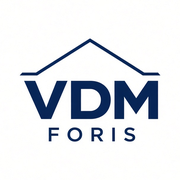
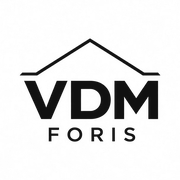
Brand: switch from navy to black and white
- Theme tokens: primary/action #111111, hover #333333, white background,
  surfaces #F5F5F5, borders #E5E5E5, muted text #595959, light grey #E5E5E5
  on black sections; pale-blue accent dropped (WhatsApp green kept)
- Logo recoloured to #111111 (alpha/anti-aliasing kept): public/brand
  vdm-foris-logo-black(.png|-square.png) replace the navy files; icon.png,
  apple-icon.png, favicon.ico recoloured
- OG image: black background, white logo, light grey footer text
- 3D werkwijze illustration: navy/blue-tinted sky and glass made neutral

diff --git a/src/app/globals.css b/src/app/globals.css
@@ -54,59 +54,60 @@
 
 :root {
   /*
-   * VDM Foris brand (logo navy #072557, sampled from the approved logo).
-   * Token names are historical: "terracotta" is now the action colour
-   * (buttons, links, small accents) and equals the logo navy; "cream" is now
-   * the light background / text-on-navy colour; "olive" is a muted slate blue
-   * for secondary labels. Contrast (WCAG AA) checked:
-   * navy on white 14.9:1, slate on #F3F6FA 6.4:1, light accent on navy 9.1:1.
+   * VDM Foris brand: black and white (logo ink #111111).
+   * Token names are historical: "navy" and "terracotta" are now the near-black
+   * primary/action colour (buttons, links, headings, small accents); "cream" is
+   * the white background / text-on-dark colour; "olive" is a mid grey for
+   * secondary labels. Contrast (WCAG AA) checked:
+   * #111111 on white 18.9:1, #595959 on white 7.0:1 and on #F5F5F5 6.4:1,
+   * #E5E5E5 on #111111 15.0:1.
    */
-  --navy: #072557;
-  --navy-hover: #1a3a70;
+  --navy: #111111;
+  --navy-hover: #333333;
   --cream: #ffffff;
-  --terracotta: #072557;
-  --olive: #3b5b86;
-  --accent-on-dark: #b7cbec;
+  --terracotta: #111111;
+  --olive: #595959;
+  --accent-on-dark: #e5e5e5;
 
   /* Semantic tokens mapped to brand */
   --background: var(--cream);
-  --foreground: #0b1a30;
+  --foreground: #111111;
   --card: #ffffff;
-  --card-foreground: #0b1a30;
+  --card-foreground: #111111;
   --popover: #ffffff;
-  --popover-foreground: #0b1a30;
+  --popover-foreground: #111111;
   --primary: var(--navy);
   --primary-foreground: #ffffff;
-  --secondary: #f3f6fa;
+  --secondary: #f5f5f5;
   --secondary-foreground: var(--navy);
-  --muted: #f3f6fa;
-  --muted-foreground: #4a5a72;
+  --muted: #f5f5f5;
+  --muted-foreground: #595959;
   --accent: var(--navy);
   --accent-foreground: #ffffff;
   --destructive: oklch(0.55 0.22 27);
-  --border: #e2e8f0;
-  --input: #e2e8f0;
+  --border: #e5e5e5;
+  --input: #e5e5e5;
   --ring: var(--navy);
   --chart-1: var(--navy);
-  --chart-2: var(--olive);
-  --chart-3: #1a3a70;
-  --chart-4: #7d97c2;
-  --chart-5: #b7cbec;
+  --chart-2: #595959;
+  --chart-3: #333333;
+  --chart-4: #8c8c8c;
+  --chart-5: #d4d4d4;
   --radius: 0.625rem;
   --sidebar: #ffffff;
-  --sidebar-foreground: #0b1a30;
+  --sidebar-foreground: #111111;
   --sidebar-primary: var(--navy);
   --sidebar-primary-foreground: #ffffff;
-  --sidebar-accent: #f3f6fa;
+  --sidebar-accent: #f5f5f5;
   --sidebar-accent-foreground: var(--navy);
-  --sidebar-border: #e2e8f0;
+  --sidebar-border: #e5e5e5;
   --sidebar-ring: var(--navy);
 }
 
 /*
- * On navy sections the action colour would vanish, so swap it for the light
- * accent there. Buttons that use the action colour as background become
- * white with navy text.
+ * On black sections the action colour would vanish, so swap it for light grey
+ * there. Buttons that use the action colour as background become white with
+ * black text.
  */
 .bg-navy,
 .on-dark {
@@ -120,29 +121,29 @@
 }
 
 .dark {
-  --background: oklch(0.18 0.03 250);
+  --background: oklch(0.18 0 0);
   --foreground: var(--cream);
-  --card: oklch(0.225 0.04 250);
+  --card: oklch(0.225 0 0);
   --card-foreground: var(--cream);
-  --popover: oklch(0.225 0.04 250);
+  --popover: oklch(0.225 0 0);
   --popover-foreground: var(--cream);
   --primary: var(--cream);
   --primary-foreground: var(--navy);
-  --secondary: oklch(0.27 0.04 250);
+  --secondary: oklch(0.27 0 0);
   --secondary-foreground: var(--cream);
-  --muted: oklch(0.27 0.04 250);
-  --muted-foreground: oklch(0.7 0.02 250);
+  --muted: oklch(0.27 0 0);
+  --muted-foreground: oklch(0.7 0 0);
   --accent: var(--terracotta);
   --accent-foreground: var(--cream);
   --destructive: oklch(0.7 0.19 22);
   --border: oklch(1 0 0 / 10%);
   --input: oklch(1 0 0 / 15%);
   --ring: var(--terracotta);
-  --sidebar: oklch(0.225 0.04 250);
+  --sidebar: oklch(0.225 0 0);
   --sidebar-foreground: var(--cream);
   --sidebar-primary: var(--terracotta);
   --sidebar-primary-foreground: var(--cream);
-  --sidebar-accent: oklch(0.27 0.04 250);
+  --sidebar-accent: oklch(0.27 0 0);
   --sidebar-accent-foreground: var(--cream);
   --sidebar-border: oklch(1 0 0 / 10%);
   --sidebar-ring: var(--terracotta);

diff --git a/src/app/opengraph-image.tsx b/src/app/opengraph-image.tsx
@@ -6,8 +6,8 @@ export const alt = "VDM Foris · Onderhoud en woningbeheer rond Castellón";
 export const size = { width: 1200, height: 630 };
 export const contentType = "image/png";
 
-const NAVY = "#072557";
-const ACCENT_ON_DARK = "#b7cbec";
+const BLACK = "#111111";
+const LIGHT_GREY = "#e5e5e5";
 
 export default async function OpenGraphImage() {
   const logo = await readFile(
@@ -21,7 +21,7 @@ export default async function OpenGraphImage() {
         style={{
           width: "100%",
           height: "100%",
-          background: NAVY,
+          background: BLACK,
           display: "flex",
           flexDirection: "column",
           alignItems: "center",
@@ -53,7 +53,7 @@ export default async function OpenGraphImage() {
             right: 72,
             display: "flex",
             justifyContent: "space-between",
-            color: ACCENT_ON_DARK,
+            color: LIGHT_GREY,
             fontSize: 22,
             letterSpacing: "0.12em",
             textTransform: "uppercase",

diff --git a/src/components/Werkwijze3D.tsx b/src/components/Werkwijze3D.tsx
@@ -44,8 +44,8 @@ const SAND = "#dcc9a3";
 const CONCRETE = "#c9c2b2";
 const WALL = "#f7f1e4";
 const TERRA = "#c9603a";
-const NAVYC = "#16354d";
-const GLASS = "#8fb6c9";
+const NAVYC = "#111111";
+const GLASS = "#c8ccd0";
 const GREEN = "#5a6e3a";
 const TRUNK = "#8a6844";
 const POOL = "#4f93ad";
@@ -296,7 +296,7 @@ export function Werkwijze3D() {
               className="relative aspect-square max-h-[46vh] w-full overflow-hidden rounded-3xl border border-border md:max-h-[80vh]"
               style={{
                 background:
-                  "radial-gradient(60% 35% at 70% 8%, #e6edf7, transparent 70%), linear-gradient(180deg, #dce5f1, #f5f7fb)",
+                  "radial-gradient(60% 35% at 70% 8%, #ededed, transparent 70%), linear-gradient(180deg, #e5e5e5, #f7f7f7)",
               }}
             >
               <div

diff --git a/src/app/layout.tsx b/src/app/layout.tsx
@@ -63,7 +63,7 @@ const organizationJsonLd = {
       name: "Van der Meulen Foris B.V.",
       alternateName: "Foris",
       url: SITE_URL,
-      logo: `${SITE_URL}/brand/vdm-foris-logo-navy-square.png`,
+      logo: `${SITE_URL}/brand/vdm-foris-logo-black-square.png`,
       image: `${SITE_URL}/opengraph-image`,
       description:
         "Woningbeheer, onderhoud en reparaties in Grau de Castellón, Castellón en Benicàssim, en verhuur van eigen woonruimte in Castellón. Ook Nederlandstalige begeleiding bij het kopen van een huis aan de Costa del Azahar.",

diff --git a/src/components/SiteHeader.tsx b/src/components/SiteHeader.tsx
@@ -24,7 +24,7 @@ export function SiteHeader() {
           className="flex items-center"
         >
           <Image
-            src="/brand/vdm-foris-logo-navy.png"
+            src="/brand/vdm-foris-logo-black.png"
             alt="VDM Foris"
             width={496}
             height={370}
